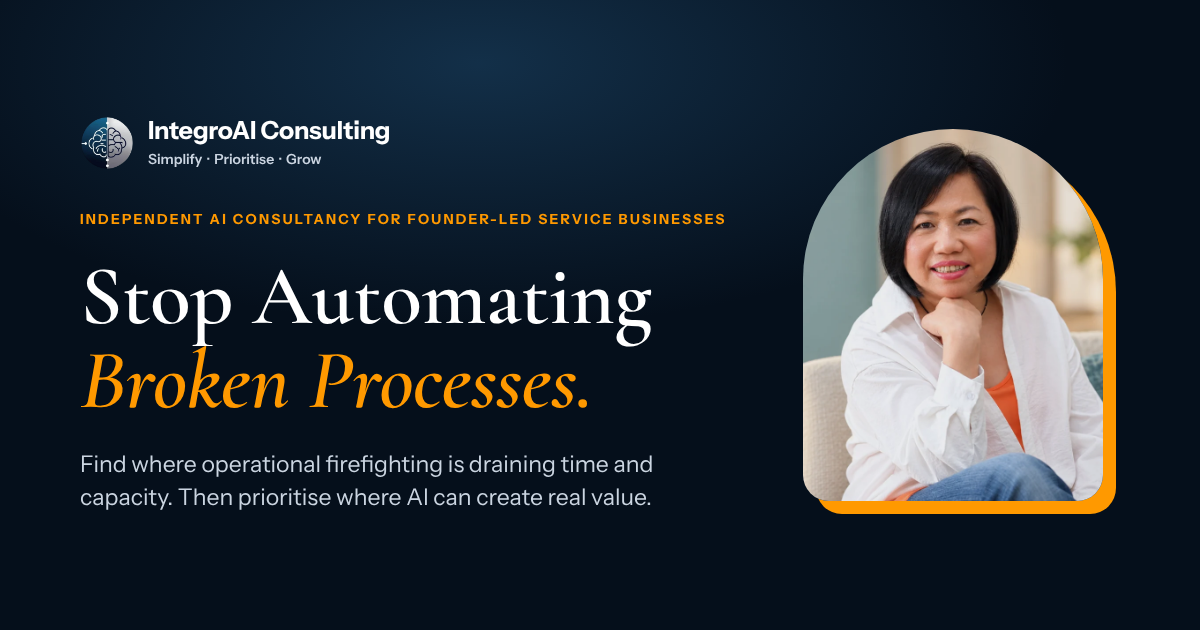
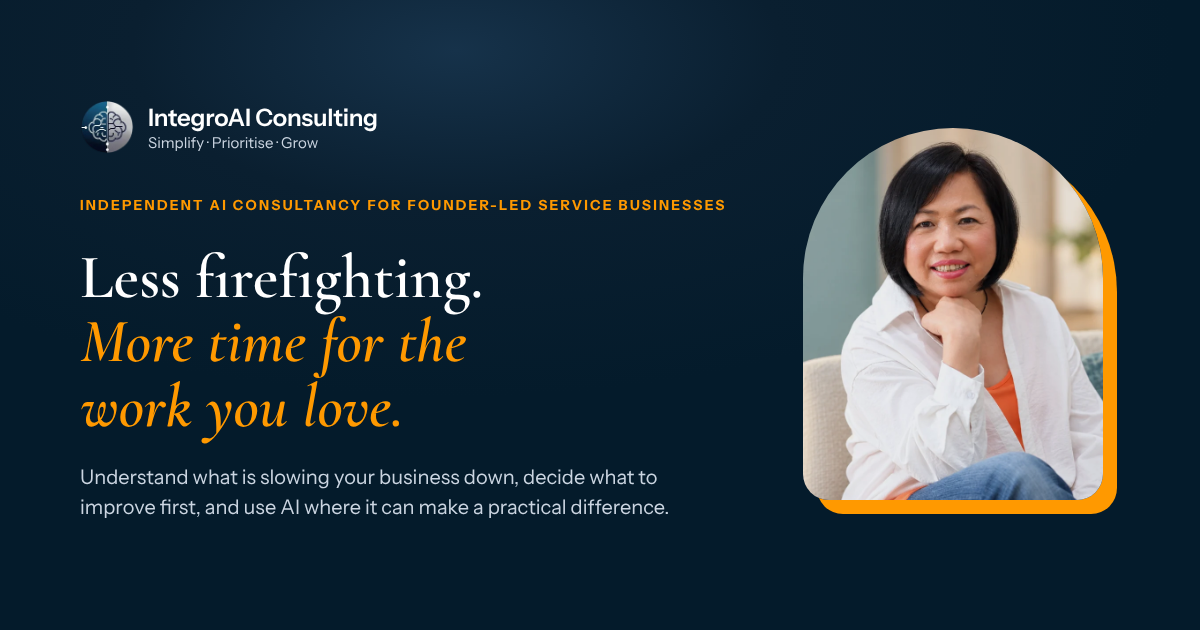
New share image matching the hero; remove the Operating Framework section
- og-image.png: Less firefighting. More time for the work you love.
- Work With Me: remove the five-step framework section; alternate section backgrounds
- Search data and llms.txt: describe the Diagnostic-led stages instead of the framework

Claude-Session: https://claude.ai/code/session_01AkkoTAXYwd1B78fkcqrT2s

diff --git a/index.html b/index.html
@@ -55,7 +55,7 @@
     <meta property="og:image" content="https://integroai.tech/og-image.png" />
     <meta property="og:image:width" content="1200" />
     <meta property="og:image:height" content="630" />
-    <meta property="og:image:alt" content="IntegroAI Consulting. Stop Automating Broken Processes. Selina Fischer, founder." />
+    <meta property="og:image:alt" content="IntegroAI Consulting. Less firefighting. More time for the work you love. Selina Fischer, founder." />
     <meta property="og:site_name" content="IntegroAI Consulting" />
     <meta property="og:locale" content="en_GB" />
 
@@ -243,37 +243,37 @@
         {
           "@type": "HowTo",
           "name": "How IntegroAI Helps Founder-Led Service Businesses Make AI Decisions",
-          "description": "A structured 5-step framework: Discover, Design, Validate, Deliver, Iterate",
+          "description": "Five stages, each agreed before it begins: Diagnose, Decide, Prepare, Implement, Evolve.",
           "step": [
             {
               "@type": "HowToStep",
               "position": 1,
-              "name": "Discover",
-              "text": "Assess readiness, clarify the business problem, and identify where AI could add value."
+              "name": "Diagnose",
+              "text": "A consultant-led review that shows what is slowing the business down, what to fix first and where AI is worth the investment."
             },
             {
               "@type": "HowToStep",
               "position": 2,
-              "name": "Design",
-              "text": "Define success measures and build a practical, commercially grounded roadmap."
+              "name": "Decide",
+              "text": "The client chooses what to act on first, and the scope and measures for the next stage are agreed."
             },
             {
               "@type": "HowToStep",
               "position": 3,
-              "name": "Validate",
-              "text": "Test assumptions with a small pilot so value is proven before scale."
+              "name": "Prepare",
+              "text": "Workflows, data, governance and the team are made ready for the changes chosen."
             },
             {
               "@type": "HowToStep",
               "position": 4,
-              "name": "Deliver",
-              "text": "Support structured execution with governance, oversight, and adoption planning."
+              "name": "Implement",
+              "text": "Working solutions are built and deployed, with human oversight built in."
             },
             {
               "@type": "HowToStep",
               "position": 5,
-              "name": "Iterate",
-              "text": "Review outcomes, refine priorities, and improve performance over time."
+              "name": "Evolve",
+              "text": "Results are reviewed against the agreed measures, and priorities are refined as the business grows."
             }
           ]
         }

diff --git a/src/pages/WorkWithMe.tsx b/src/pages/WorkWithMe.tsx
@@ -12,7 +12,6 @@ import selinaOffice480 from "@/assets/selina-work-portrait-480.webp";
 import selinaOffice640 from "@/assets/selina-work-portrait-640.webp";
 import { EXTRA_SERVICES_SECTION_ID } from "@/lib/extraServices";
 import ExtraServicesList from "@/components/ExtraServicesList";
-import Framework from "@/components/Framework";
 import ClientTestimonials from "@/components/ClientTestimonials";
 
 // The free 5-minute check is a separate, unnumbered entry row with a button.
@@ -314,9 +313,8 @@ const WorkWithMe = () => {
           </section>
 
           {/* Client testimonials: proof at the point of decision. */}
-          <Framework titleClassName="font-heading text-3xl sm:text-4xl lg:text-[40px]" />
 
-          <ClientTestimonials id="client-testimonials-title" heading={<>Clear, Practical, <span className="italic text-brand-amber">Valuable.</span></>}>
+          <ClientTestimonials id="client-testimonials-title" tone="white" heading={<>Clear, Practical, <span className="italic text-brand-amber">Valuable.</span></>}>
             <div className="flex justify-center">
               <a
                 href="https://calendly.com/integroai-tech/30min"
@@ -331,7 +329,7 @@ const WorkWithMe = () => {
           </ClientTestimonials>
 
           {/* Standalone services, kept brief on purpose. */}
-          <section id={EXTRA_SERVICES_SECTION_ID} className="bg-white py-12 sm:py-14">
+          <section id={EXTRA_SERVICES_SECTION_ID} className="bg-subtle py-12 sm:py-14">
             <div className="wrap">
               <m.div
                 initial={{ opacity: 0, y: 16 }}

diff --git a/src/pages/Index.tsx b/src/pages/Index.tsx
@@ -21,7 +21,7 @@ const Index = () => {
     "@type": "LocalBusiness",
     "@id": "https://integroai.tech/#localbusiness",
     "name": "IntegroAI Consulting",
-    "description": "IntegroAI Consulting is an independent AI consultancy for founder-led service businesses. We help founders and leaders reduce operational firefighting and repetitive work, strengthen operational control and identify where AI can create measurable business value, through our Discover-Design-Validate-Deliver-Iterate operating framework. Engagements start with the AI & Operations Diagnostic, followed by foundations and responsible adoption, implementation, and ongoing advisory.",
+    "description": "IntegroAI Consulting is an independent AI consultancy for founder-led service businesses. We help founders and leaders reduce operational firefighting and repetitive work, strengthen operational control and identify where AI can create measurable business value. Engagements start with the AI & Operations Diagnostic, followed by foundations and responsible adoption, implementation, and ongoing advisory.",
     "url": "https://integroai.tech",
     "logo": "https://integroai.tech/apple-touch-icon.png",
     "image": "https://integroai.tech/og-image.png",
